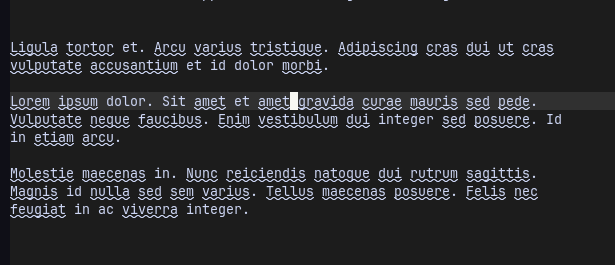
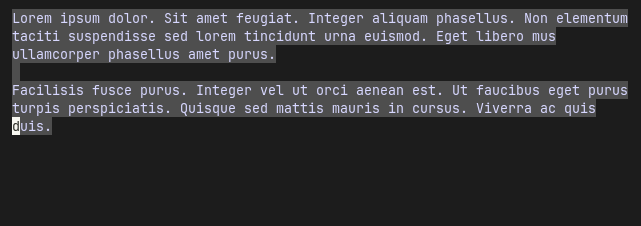
update README

diff --git a/README.md b/README.md
@@ -2,96 +2,146 @@
 
 A Neovim plugin for Markdown block related tasks.
 
-The `markdown-blocks.nvim` plugin has commands to quote, break, wrap, unwrap, number and renumber Markdown elements.
-
-## Installation
-
-The plugin implements Lua functions to break, quote, number and wrap/unwrap Markdown blocks. Installation is just a matter of creating key mappings to these functions.
-
-- Download and install from the Github [srackham/markdown-blocks.nvim](https://github.com/srackham/digraph-picker.nvim) repo using your preferred Neovim plugin installer.
-- Create keyboard mappings to invoke the Lua block functions.
-
-| Function name    | Description                        |
-| ---------------- | ---------------------------------- |
-| `break_block`    | Toggle ` \` line suffix breaks     |
-| `quote_block`    | Toggle `> ` line prefix quotes     |
-| `number_block`   | Toggle ordered list line numbers   |
-| `renumber_block` | Renumber ordered list line numbers |
-| `wrap_block` †   | Wrap lines                         |
-| `unwrap_block`   | Unwrap (join) lines                |
-
-† Accepts optional column number argument, if omitted wraps at the current cursor column.
-
-### Example LazyVim Configuration
-
-1. Create a Lua file (e.g. `markdown-blocks.lua`) in the plugins configuration directory (normally `~/.config/nvim/lua/plugins/` on Linux) and add the following code (optionally edit the key bindings):
-
-```lua
-return {
-  'srackham/markdown-blocks.nvim',
-  version = '*', -- Install latest tagged version
-  config = function()
-    local mb = require('markdown-blocks')
-    vim.keymap.set({ 'n', 'v' }, '<Leader>mb', mb.break_block,
-      { noremap = true, silent = true, desc = "Break/unbreak the paragraph/selection at the cursor" })
-    vim.keymap.set({ 'n', 'v' }, '<Leader>mq', mb.quote_block,
-      { noremap = true, silent = true, desc = "Quote/unquote paragraph/selection at the cursor" })
-    vim.keymap.set({ 'n', 'v' }, '<Leader>mw', mb.wrap_block,
-      { noremap = true, silent = true, desc = "Wrap paragraph/selection at the cursor column" })
-    vim.keymap.set({ 'n', 'v' }, '<Leader>mW', function()
-      local col = tonumber(vim.fn.input('Wrap at column: '))
-      if col then mb.wrap_block(col) end
-    end, { noremap = true, silent = true, desc = "Prompted wrap paragraph/selection" })
-    vim.keymap.set({ 'n', 'v' }, '<Leader>mu', mb.unwrap_block,
-      { noremap = true, silent = true, desc = "Unwrap paragraph/selection" })
-    vim.keymap.set({ 'n', 'v' }, '<Leader>mn', mb.number_block,
-      { silent = true, noremap = true, desc = "Number/unnumber non-indented lines" })
-    vim.keymap.set({ 'n', 'v' }, '<Leader>mr', mb.renumber_block,
-      { silent = true, noremap = true, desc = "Renumber numbered lines" })
-  end,
-}
-```
-
-2. Restart Neovim. LazyVim will detect the new plugin file and install it from Github.
-
-## Usage
-
-In normal mode block functions are applied to the paragraph at the cursor, in visual mode they are applied to the current selection.
-
-- It is recommended that you format Markdown using accepted styling norms, see for example the [Google Markdown style guide](https://google.github.io/styleguide/docguide/style.html), doing this will eliminate a lot of potentially anomalous behavior. [Prettier](https://prettier.io/) is a good choice of code formatter for Markdown.
-- It is recommended to use spaces throughout; expand tabs to 4 spaces.
+The `markdown-blocks.nvim` plugin has commands to quote, break, wrap, unwrap, number and renumber blocks of Markdown text.
 
 ## Screenshots
 
-### Normal mode wrap paragraph
+Here are some of the transformations.
 
-| ![Unwrapped](screenshots/image1.png) | ![Wrapped](screenshots/image2.png) |
-| ------------------------------------ | ---------------------------------- |
+### Wrap paragraphs
 
-### Visual mode wrap selection
+| ![Alt text](screenshots/image1.png) | ![Alt text](screenshots/image2.png) |
+| ----------------------------------- | ----------------------------------- |
 
-| ![Unwrapped](screenshots/image3.png) | ![Wrapped](screenshots/image4.png) |
-| ------------------------------------ | ---------------------------------- |
+### Toggle Line breaks
 
-### Visual mode break selection
+| ![Alt text](screenshots/image3.png) | ![Alt text](screenshots/image4.png) |
+| ----------------------------------- | ----------------------------------- |
 
-| ![Unwrapped](screenshots/image5.png) | ![Wrapped](screenshots/image6.png) |
-| ------------------------------------ | ---------------------------------- |
+### Toggle Markdown table to CSV
 
-### Visual mode quote selection
+| ![Alt text](screenshots/image5.png) | ![Alt text](screenshots/image6.png) |
+| ----------------------------------- | ----------------------------------- |
 
-| ![Unwrapped](screenshots/image7.png) | ![Wrapped](screenshots/image8.png) |
-| ------------------------------------ | ---------------------------------- |
+### Toggle code fence
 
-### Normal mode number paragraph
+| ![Alt text](screenshots/image7.png) | ![Alt text](screenshots/image8.png) |
+| ----------------------------------- | ----------------------------------- |
 
-| ![Unwrapped](screenshots/image9.png) | ![Wrapped](screenshots/image10.png) |
-| ------------------------------------ | ----------------------------------- |
+### Toggle list bullets
 
-### Visual mode renumber selection
+| ![Alt text](screenshots/image9.png) | ![Alt text](screenshots/image10.png) |
+| ----------------------------------- | ------------------------------------ |
 
-| ![Unwrapped](screenshots/image11.png) | ![Wrapped](screenshots/image12.png) |
-| ------------------------------------- | ----------------------------------- |
+### Toggle list numbers
+
+| ![Alt text](screenshots/image11.png) | ![Alt text](screenshots/image12.png) |
+| ------------------------------------ | ------------------------------------ |
+
+### Toggle ruled block
+
+| ![Alt text](screenshots/image13.png) | ![Alt text](screenshots/image14.png) |
+| ------------------------------------ | ------------------------------------ |
+
+## Usage
+
+In normal mode the block functions are applied to the paragraph at the cursor, in visual mode they are applied to the current selection.
+
+Recommendations:
+
+- Format Markdown using accepted styling norms, see for example the [Google Markdown style guide](https://google.github.io/styleguide/docguide/style.html), doing this will eliminate a lot of potentially anomalous behavior. [Prettier](https://prettier.io/) is a good choice of code formatter for Markdown.
+- Use spaces throughout; expand tabs to 4 spaces.
+
+## Installation
+
+The plugin implements Lua functions to break, quote, number, wrap/unwrap and delimit Markdown blocks. To use these functions assign them to custom key mappings.
+
+- Download and install from the Github [srackham/markdown-blocks.nvim](https://github.com/srackham/markdown-blocks.nvim) repo using your preferred Neovim plugin installer.
+- Create keyboard mappings to invoke the Lua block functions.
+
+| Function name          | Description                                   |
+| ---------------------- | --------------------------------------------- |
+| `bullet_list_toggle`   | Toggle unordered list bullets                 |
+| `csv_table_toggle`     | Toggle between Markdown table and CSV         |
+| `csv_to_table`         | Convert CSV to Markdown table                 |
+| `delimiters_toggle` †  | Toggle block delimiter lines                  |
+| `line_breaks_toggle`   | Toggle line line break suffixes (`\`)         |
+| `numbered_list_toggle` | Toggle ordered list line numbers              |
+| `quotes_toggle`        | Toggle line quote prefix (`>`)                |
+| `renumber_list`        | Renumber ordered list line numbers            |
+| `toggle_csv_to_table`  | Toggle between Markdown table and CSV formats |
+| `unwrap_block`         | Unwrap (join) lines                           |
+| `wrap_block` ‡         | Wrap lines                                    |
+
+† Passed line delimiter arguments. \
+‡ Passed a wrap column number argument.
+
+### Example LazyVim Configuration
+
+1. Create a Lua file (e.g. `markdown-blocks.lua`) in the plugins configuration directory (normally `~/.config/nvim/lua/plugins/` on Linux) and add the following code (edit the key bindings to match your preferences):
+
+````lua
+return {
+  'srackham/markdown-blocks.nvim',
+  enabled = true,
+  version = '*', -- Install latest tagged version
+  config = function()
+    local mb = require('markdown-blocks')
+
+    -- Markdown mappings
+    vim.api.nvim_create_autocmd('FileType', {
+      pattern = 'markdown',
+      callback = function()
+        local wrap_column = 100
+        vim.keymap.set({ 'n', 'v' }, '<Leader>mb', mb.line_breaks_toggle,
+          { noremap = true, silent = true, desc = "Break/unbreak the paragraph/selection at the cursor" })
+        vim.keymap.set({ 'n', 'v' }, '<Leader>mq', mb.quotes_toggle,
+          { noremap = true, silent = true, desc = "Quote/unquote paragraph/selection at the cursor" })
+        vim.keymap.set({ 'n', 'v' }, '<Leader>ml', mb.bullet_list_toggle,
+          { noremap = true, silent = true, desc = "Toggle list item bullets in paragraph/selection at the cursor" })
+        vim.keymap.set({ 'n', 'v' }, '<Leader>mw', function()
+          local col = vim.fn.input("Wrap at column number: ", tostring(wrap_column))
+          if col == '' then
+            return
+          end
+          col = tonumber(col)
+          if col then
+            mb.wrap_block(col)
+            wrap_column = col
+          end
+        end, { noremap = true, silent = true, desc = "Wrap paragraph/selection" })
+        vim.keymap.set({ 'n', 'v' }, '<Leader>mu', mb.unwrap_block,
+          { noremap = true, silent = true, desc = "Unwrap paragraph/selection" })
+        vim.keymap.set({ 'n', 'v' }, '<Leader>mn', mb.numbered_list_toggle,
+          { silent = true, noremap = true, desc = "Toggle numbering non-indented lines" })
+        vim.keymap.set({ 'n', 'v' }, '<Leader>mr', function() mb.delimiters_toggle('___', '___') end,
+          { silent = true, noremap = true, desc = "Toggle ruler delimiters" })
+        vim.keymap.set({ 'n', 'v' }, '<Leader>mQ',
+          function() mb.delimiters_toggle('<blockquote>\n', '\n</blockquote>') end,
+          { silent = true, noremap = true, desc = "Toggle HTML blockquote delimiters" })
+        vim.keymap.set({ 'n', 'v' }, '<Leader>mf', function() mb.delimiters_toggle('```', '```') end,
+          { silent = true, noremap = true, desc = "Toggle code fence delimiters" })
+        vim.keymap.set({ 'n', 'v' }, '<Leader>mF', function()
+            local lang = vim.fn.input("Language: ")
+            mb.delimiters_toggle('```' .. lang, '```')
+          end,
+          {
+            silent = true,
+            noremap = true,
+            desc =
+            "Toggle code fence delimiters with language code"
+          })
+        vim.keymap.set({ 'n', 'v' }, '<Leader>mh', function() mb.delimiters_toggle('<!--', '-->') end,
+          { silent = true, noremap = true, desc = "Toggle HTML block comment delimiters" })
+        vim.keymap.set({ 'n', 'v' }, '<Leader>mc', mb.toggle_csv_to_table,
+          { silent = true, noremap = true, desc = "Toggle between Markdown table and CSV" })
+      end,
+    })
+  end,
+}
+````
+
+2. Restart Neovim. LazyVim will detect the new plugin file and install it from Github.
 
 ## Limitations
 
@@ -102,57 +152,26 @@ In normal mode block functions are applied to the paragraph at the cursor, in vi
 - Does not process quoted numbered lists.
 - A list is considered terminated when a subsequent line encroaches into the list's indent.
 
+<!--
 ## Todo
 
 - Write tests (use the digraph-picker.nvim tests as a model).
 
-<!--
 ## Test paragraphs
 
-Lorem ipsum dolor. Sit amet feugiat. Integer aliquam phasellus. Non elementum
-taciti suspendisse sed lorem tincidunt urna euismod. Eget libero mus
-ullamcorper phasellus amet purus.
+Lorem ipsum dolor. Sit amet feugiat. Integer aliquam phasellus. Non
+elementum taciti suspendisse sed lorem tincidunt urna euismod. Eget
+libero mus ullamcorper phasellus amet purus.
 
-Facilisis fusce purus. Integer vel ut orci aenean est. Ut faucibus eget purus
-turpis perspiciatis. Quisque sed mattis mauris in cursus. Viverra ac quis
-duis.
+---
+
+Facilisis fusce purus. Integer vel ut orci aenean est. Ut faucibus
+eget purus turpis perspiciatis. Quisque sed mattis mauris in cursus.
+Viverra ac quis duis.
+
+---
 
 Lorem ipsum dolor. Sit amet feugiat. Integer aliquam phasellus.
 Non elementum taciti suspendisse sed lorem tincidunt urna
 euismod. Eget libero mus ullamcorper phasellus amet purus.
-
-1.  Neque nibh magna. Feugiat quis vel. Justo habitasse quam.
-    morbi proin placerat. turpis perspiciatis. Quisque sed.
-2.  mattis mauris in cursus. Viverra ac quis.
-3.  Odio pede amet. Porttitor taciti eros massa tempus fusce.
-4.  magna proin quam. turpis perspiciatis.
-
-    1.  Neque est suspendisse pellentesque curabitur hac
-        felis ullamcorper nihil.
-    2.  Facilisis fusce purus.
-
-```
-xxx
-```
-
-5. First item
-6. Second item
-7. Third item
-   1. Indented item
-   2. Indented item
-8. Fourth item
-
-- One space,
-  with no indent for wrapped text. 1. Irregular nesting... DO NOT DO THIS.
-
-> Ligula tortor et. Arcu varius tristique. Adipiscing cras
-> dui ut cras vulputate accusantium et id dolor morbi.
->
-> Lorem ipsum dolor. Sit amet et amet gravida curae mauris
-> sed pede. Vulputate neque faucibus. Enim vestibulum dui
-> integer sed posuere. Id in etiam arcu.
-
-Molestie maecenas in. Nunc reiciendis natoque dui
-rutrum sagittis. Magnis id nulla sed sem varius.
-Tellus maecenas posuere. Felis nec feugiat in ac
-viverra integer.
+-->
